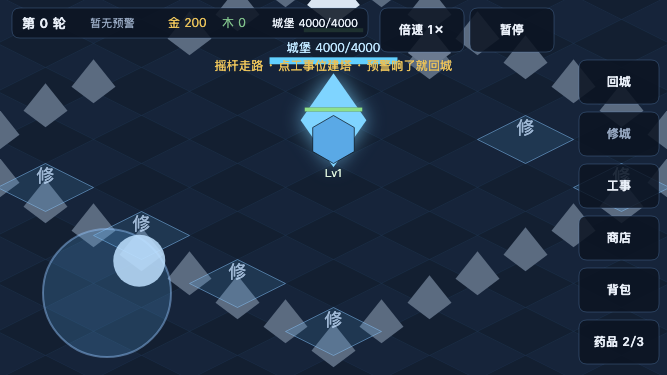
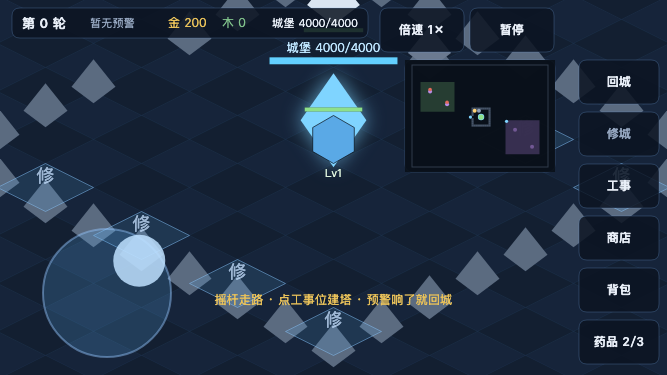
feat(minigame): 防守补上小地图（§2.6）——跟随相机下唯一的全局视图
相机跟人走时看不见基地在哪、怪从哪个方向来，那张俯视图是唯一的全局视图，点它还能回城
（与「回城」按钮共用 30 秒冷却）。浏览器版一直有，小游戏这边只有一条 ⚠ Ns 倒计时。

接法沿用移植里定型的那一招：绘制逻辑一行不重写，只补一个尺寸口子。

- render.js：createMinimap(canvas, { size }) 与 createRenderer 一样多一个 size() 口子
  （小游戏那张是离屏 canvas，同样没有 clientWidth/clientHeight；浏览器不传，行为不变）
- 小游戏里第二张 wx.createCanvas() 就是离屏画布：画在上面再整块 drawImage 贴到主画布
- 位置 405,60 起 150×112（右排按钮左边、倍速/暂停下面）；那一格也在 L.items 里，
  动作就是 { type:'teleport' }——点小地图回城，与那颗按钮同一个出口
- 顺手挪排版：防守的提示行从 y=66 挪到 底部中间 y=300（原来夹在「城堡 x/y」与小地图中间，
  样张里半句话被切掉；挪到 y=44 又和城堡那行撞上，两版都是样张看出来的）
- 用例 +2（布局与真机路：离屏画布真的画了/主画布贴了它/点它进冷却）+ TD 反向断言；
  两条变异反证；样张 minigame-defense.png 现在能看到小地图
- npm test 313 → 315；minigame 6 条全过；主包 17 模块 / 364.9 KB

Changed region(s): [[0.4198, 0.1467, 0.8396, 0.4693], [0.2999, 0.7627, 0.6897, 0.8213], [0.2999, 0.1467, 0.3898, 0.2053]]

diff --git a/src/minigame/game.js b/src/minigame/game.js
@@ -22,12 +22,12 @@ import { createTutorial, tutorialPasses } from '../tutorial.js';
 import { gridDist } from '../core.js';
 import { loadSettings, saveSettings } from '../settings.js';
 import { createHaptics } from '../feedback.js';
-import { createRenderer } from '../render.js';
+import { createMinimap, createRenderer } from '../render.js';
 import {
   buildFort, createDefenseMatch, describeDefense, orderMove, repairCastle, steerGoal, teleportHome, updateDefense,
 } from '../defense.js';
 import {
-  drawDefenseHud, hitTestDefense, inStickZone, layoutDefense, layoutFortSheet, stickBase, stickVector,
+  MINIMAP, drawDefenseHud, hitTestDefense, inStickZone, layoutDefense, layoutFortSheet, stickBase, stickVector,
 } from './defense-screen.js';
 import { applyLobbyAction, drawLobby, hitTestLobby, layoutLobby } from './lobby.js';
 import {
@@ -235,6 +235,15 @@ export function startMinigame({ requestAnimationFrame: raf = globalThis.requestA
       // 防守：摇杆状态（浮动模式下底座跟手指）+ 正在建的那个工事位
       stick: { active: false, id: null, origin: null, dir: { x: 0, y: 0, mag: 0 }, start: null },
       fortSlot: null,
+      /**
+       * 防守的小地图（§2.6）。小游戏里**第二张 `wx.createCanvas()` 就是离屏画布**：
+       * 用小地图那套现成的绘制（`render.js` 的 `createMinimap`，与浏览器版共用一份）画在它上面，
+       * 再整块贴到主画布上——省得在两处各画一遍「哪块地能刷、门在哪、怪从哪来」。
+       */
+      minimap: m.mode === 'defense' ? (() => {
+        const c = wx.createCanvas();
+        return { canvas: c, api: createMinimap(c, { size: () => ({ w: MINIMAP.w, h: MINIMAP.h }) }) };
+      })() : null,
       ...over,
     };
     applyCamera(b);
@@ -742,6 +751,11 @@ export function startMinigame({ requestAnimationFrame: raf = globalThis.requestA
       const o = hudOffset();
       ctx.setTransform(size.dpr, 0, 0, size.dpr, size.dpr * o.x, size.dpr * o.y);
       drawDefenseHud(ctx, b.m, b.layout, { message, stick: b.stick.active ? { base: b.stick.origin, dir: b.stick.dir } : { base: b.layout.stick, dir: { x: 0, y: 0, mag: 0 } } });
+      // 小地图画在 HUD 之后：它那一格在 `items` 里（负责命中），底下的面板底由这张图盖住
+      if (b.minimap) {
+        b.minimap.api.draw(b.m);
+        ctx.drawImage(b.minimap.canvas, MINIMAP.x, MINIMAP.y, MINIMAP.w, MINIMAP.h);
+      }
     } else {
       b.layout = layoutBattle(b.model());
       // `hintSlots`：引导第一步/第二步在战场上圈出「建这里」（render.js 本来就有这段，直接复用）
@@ -863,6 +877,8 @@ export function startMinigame({ requestAnimationFrame: raf = globalThis.requestA
     match: () => battle?.m ?? null,
     /** 调试/验收用：屏幕坐标 ↔ 格坐标的换算（点塔位那一步要用） */
     renderer: () => battle?.renderer ?? null,
+    /** 调试/验收用：防守的小地图（离屏画布 + `render.js` 那套绘制）——离线验收要断言它真的画了 */
+    minimap: () => battle?.minimap ?? null,
     tap: (x, y) => (battle ? tapBattle(battle, x, y) : tapLobby(x, y)),
     startMatch,
     backToLobby,

diff --git a/src/minigame/defense-screen.js b/src/minigame/defense-screen.js
@@ -9,6 +9,11 @@ import { FORTS } from '../data.js';
 
 export const DESIGN = { w: 667, h: 375 };
 export const CAPSULE = { w: 96, h: 32 };
+/**
+ * §2.6 / §14.3 稿 5 的小地图：**跟随相机下唯一的全局视图**（我在哪、怪从哪来、基地还剩多少），
+ * 点它回城（与「回城」按钮共用 30 秒冷却）。位置挑在右侧那排按钮的左边、倍速/暂停下面那块空地。
+ */
+export const MINIMAP = { x: 405, y: 60, w: 150, h: 112 };
 export const STICK = {
   radius: 64,        // 摇杆推满的半径（§1.9.1 的 60-72pt，取中）
   deadZone: 0.25,    // 死区：小于它算没推（与 defense.js 的 steerGoal 门槛同源）
@@ -112,10 +117,17 @@ export function layoutDefense(m, model = {}) {
   if (model.endlessExit) {
     items.push(item('endless', 20, 315, 200, 48, '继续（无尽）', { type: 'endless' }));
   }
+  /**
+   * 小地图那一格：**键本身不画东西**（label 是空串，底下那层面板底会被小地图盖住），
+   * 它只负责两件事——命中测试（点它 = 回城，与「回城」按钮同一个动作）与给绘制层一个矩形。
+   */
+  items.push(item('minimap', MINIMAP.x, MINIMAP.y, MINIMAP.w, MINIMAP.h, '',
+    { type: 'teleport' }, { disabled: m.hero?.teleportCd > 0 || m.hero?.dead }));
   return {
     w: DESIGN.w, h: DESIGN.h,
     capsule: { x: DESIGN.w - CAPSULE.w - 8, y: 6, w: CAPSULE.w, h: CAPSULE.h },
     top: { x: 12, y: 8, w: 356, h: 30 },
+    minimap: MINIMAP,
     items,
     byId: Object.fromEntries(items.map((it) => [it.id, it])),
     stick: stickBase(model),
@@ -182,7 +194,12 @@ export function drawDefenseHud(ctx, m, L, { message = null, stick = null } = {})
     ctx.arc(kx, ky, 26, 0, Math.PI * 2);
     ctx.fill();
   }
-  if (message) text(ctx, message, L.w / 2, 66, { size: 12, align: 'center', color: COLORS.gold });
+  /**
+   * 提示那一行写在**底部中间**（y=300）：上半屏那条中线被两样东西占着——`drawDefense` 自己画的
+   * 「城堡 x/y + 血条」（城堡多半就在屏幕中上部）与小地图（y=60 起）。以前写在这两者中间，
+   * 样张里一眼就能看见半句话被切掉。底部这一带是空的（右排按钮在 x=579 往右，工事/回城都不在这）。
+   */
+  if (message) text(ctx, message, L.w / 2, 300, { size: 12, align: 'center', color: COLORS.gold });
   return L;
 }
 

diff --git a/src/render.js b/src/render.js
@@ -568,15 +568,20 @@ export function createRenderer(canvas, { size = null } = {}) {
  * 防守模式的右上小地图（§2.6 / §14.3 稿 5）：跟随相机下看不见基地与进攻方向，
  * 这张俯视平面图是「我在哪、怪从哪来、基地还剩多少」的唯一全局视图；点它回城（冷却 30s）。
  */
-export function createMinimap(canvas) {
+export function createMinimap(canvas, { size = null } = {}) {
   const ctx = canvas.getContext('2d');
   const PAD = 5;
   const view = { s: 1, ox: PAD, oy: PAD, w: 0, h: 0 };
 
-  function size(m) {
+  function layoutFor(m) {
     const dpr = Math.min(2, viewport().dpr || 1);
-    const w = canvas.clientWidth || canvas.width || 200;
-    const h = canvas.clientHeight || canvas.height || 150;
+    /**
+     * §平台适配（小游戏移植）：小游戏那张是**离屏 canvas**，同样没有 `clientWidth/clientHeight`，
+     * 所以和 `createRenderer` 一样允许传一个 `size()`；浏览器不传，行为与以前一模一样。
+     */
+    const measured = size ? size() : null;
+    const w = measured ? measured.w : (canvas.clientWidth || canvas.width || 200);
+    const h = measured ? measured.h : (canvas.clientHeight || canvas.height || 150);
     const pw = Math.floor(w * dpr), ph = Math.floor(h * dpr);
     if (canvas.width !== pw || canvas.height !== ph) { canvas.width = pw; canvas.height = ph; }
     ctx.setTransform(dpr, 0, 0, dpr, 0, 0);
@@ -590,7 +595,7 @@ export function createMinimap(canvas) {
   const toMinimap = (x, y) => ({ x: view.ox + (x + 0.5) * view.s, y: view.oy + (y + 0.5) * view.s });
 
   function draw(m) {
-    size(m);
+    layoutFor(m);
     const dot = (x, y, r, fill) => {
       const p = toMinimap(x, y);
       ctx.fillStyle = fill;

diff --git a/tests/minigame-battle.test.js b/tests/minigame-battle.test.js
@@ -71,6 +71,8 @@ test('小游戏战场 HUD：可点元素 ≥44×44、画布内、互不重叠、
   }
   assert.equal(L.capsule.w, CAPSULE.w);
   assert.ok(L.w === DESIGN.w && L.h === DESIGN.h);
+  // 小地图是防守专属（跟随相机下才需要那张全局视图）——TD 这边不该有那一格
+  assert.ok(!L.items.some((it) => it.id === 'minimap'), 'TD 的 HUD 上不该有小地图');
 });
 
 test('小游戏战场 HUD：命中测试与画出来的位置同源（每个按钮点中心都拿到自己的动作）', () => {

diff --git a/docs/STATUS.md b/docs/STATUS.md
@@ -21,7 +21,7 @@
 ## 2. 一条命令复跑全部验证
 
 ```bash
-npm test        # 313 项：数值 / 波次 / 经济 / 装备 / 天赋 / 技能细节 / 存档 / 联机 / 快速匹配 / 触觉反馈 / 摇杆指令 / 溅射衰减 / 药品计数 / 解锁来源与流水 / 野外区分区 / 亚格渲染 / 克制提示 / 局内资源不外流 / 仇恨 1 秒 / 野外区文案 / 战绩分模式 / 面板可见性 / 浮层收起 / 房间码提示 / 空房保留窗口 / 联机指令出口（handler 逐个查）/ 畸形指令与限速 / 克制表与枚举对齐 / 联机镜像不落本地存档（§113） / 大厅按模式给选项（§115：防守没有「局内时长」） / 低特效档真的关脉冲（§116） / 怪物光环按半径结算（§117） / Boss 光环按地图开关（§118） / 逻辑帧步长只有一个定义（§119） / 协议版本两侧校验（§120） / 畸形 URL 参数不崩服务端（§121） / 别人的名字不执行（§122） / 名字长度截断（§122） / 畸形指令值不崩服务端（§123） / 房间码不可枚举（§124） / 名单不广播 uid（§125） / 调试钩子默认关（§126）与「只在本地生效」（§197）/  免费期无付费入口（§128） / 联机结算面板也写「声望 +N」（§130） / 通关转无尽的出口（§131） / 精研技能书真的 +1 级（§132） / 狂战药剂真的持续 30 秒（§133） / 防守模式 buff 生效与疾风步移速（§134） / 两模式英雄 tick 职责对齐（§135） / 亡语分裂在防守里也生效（§136） / 防守的怪也吃减速眩晕 DoT（§137） / 防守内容不许带未实现能力（§138） / 「继续上局」只在**真读得出来**时出现（§139 + §204） /  **疾行药剂在两个模式都生效（§144） / **回城冷却进存档且真的走满 30 秒（§147） / **联机修塔真的生效、TD 专属指令在防守房被拒（§148） / **联机结算的伤害占比不为空、防守占比条写中文名（§149） / **结算面板的掉落栏写中文名（§151） / **快速匹配排队时写明「在等」（§152） / **新手引导的门槛与「重看」（§153） / **文案里的数字与数据表对账（§155） / ****临时端口串门与僵尸根因（§157）** / **4★-6★ 图能从大厅选到（§158） / **真机视口下大厅动作行粘底（§159） / **结算面板出口也粘底（§160） / **真机视口下防守 HUD 紧凑排布（§161） / **真机视口下引导条不压操作行（§162） / **联机长局镜像换成 30 波表（§163）/**§130 偶发红改成确定性（§164） / **联机怪物血条分母（§165）** / **联机房英雄职业进配置（§166）** / **浸泡不变量补五项（§167） / **真机视口下防守人体工学（§168）** / **§2.2 地图表逐列对账（§169） / **其余五张数值表逐列对账（§170） / **真机上的双指缩放与双击回核心（§171） / **把量出的偏差写回设计文档（§172） / **复跑三张数字表（§173） / **协议消息类型两边都要有人用（§174） / **零读者的导出扫干净（§175）** / **用到的 class 都有样式规则（§176）** / **客户端开局参数归一化（§177：坏 URL 不白屏 + 不污染档案）** / **缺 seed 的房间不再是常数种子（§177）** / **提示音在真机手势里解锁、日志不再谎报（§178）** / **真机手势卫生：连点技能键/长按不再被浏览器抢走（§180）** / **HUD 按安全区收边、不再压进刘海（§181）** / **冒烟的 CDP 请求加上限、不再偶发挂死（§182）** / **存不了档时说一声（§183）** / **大厅里不再偷偷打那一局（§184：不跑模拟、不出怪、不记档）** / **竖屏兜底「请横屏」（§185）**…
+npm test        # 315 项：数值 / 波次 / 经济 / 装备 / 天赋 / 技能细节 / 存档 / 联机 / 快速匹配 / 触觉反馈 / 摇杆指令 / 溅射衰减 / 药品计数 / 解锁来源与流水 / 野外区分区 / 亚格渲染 / 克制提示 / 局内资源不外流 / 仇恨 1 秒 / 野外区文案 / 战绩分模式 / 面板可见性 / 浮层收起 / 房间码提示 / 空房保留窗口 / 联机指令出口（handler 逐个查）/ 畸形指令与限速 / 克制表与枚举对齐 / 联机镜像不落本地存档（§113） / 大厅按模式给选项（§115：防守没有「局内时长」） / 低特效档真的关脉冲（§116） / 怪物光环按半径结算（§117） / Boss 光环按地图开关（§118） / 逻辑帧步长只有一个定义（§119） / 协议版本两侧校验（§120） / 畸形 URL 参数不崩服务端（§121） / 别人的名字不执行（§122） / 名字长度截断（§122） / 畸形指令值不崩服务端（§123） / 房间码不可枚举（§124） / 名单不广播 uid（§125） / 调试钩子默认关（§126）与「只在本地生效」（§197）/  免费期无付费入口（§128） / 联机结算面板也写「声望 +N」（§130） / 通关转无尽的出口（§131） / 精研技能书真的 +1 级（§132） / 狂战药剂真的持续 30 秒（§133） / 防守模式 buff 生效与疾风步移速（§134） / 两模式英雄 tick 职责对齐（§135） / 亡语分裂在防守里也生效（§136） / 防守的怪也吃减速眩晕 DoT（§137） / 防守内容不许带未实现能力（§138） / 「继续上局」只在**真读得出来**时出现（§139 + §204） /  **疾行药剂在两个模式都生效（§144） / **回城冷却进存档且真的走满 30 秒（§147） / **联机修塔真的生效、TD 专属指令在防守房被拒（§148） / **联机结算的伤害占比不为空、防守占比条写中文名（§149） / **结算面板的掉落栏写中文名（§151） / **快速匹配排队时写明「在等」（§152） / **新手引导的门槛与「重看」（§153） / **文案里的数字与数据表对账（§155） / ****临时端口串门与僵尸根因（§157）** / **4★-6★ 图能从大厅选到（§158） / **真机视口下大厅动作行粘底（§159） / **结算面板出口也粘底（§160） / **真机视口下防守 HUD 紧凑排布（§161） / **真机视口下引导条不压操作行（§162） / **联机长局镜像换成 30 波表（§163）/**§130 偶发红改成确定性（§164） / **联机怪物血条分母（§165）** / **联机房英雄职业进配置（§166）** / **浸泡不变量补五项（§167） / **真机视口下防守人体工学（§168）** / **§2.2 地图表逐列对账（§169） / **其余五张数值表逐列对账（§170） / **真机上的双指缩放与双击回核心（§171） / **把量出的偏差写回设计文档（§172） / **复跑三张数字表（§173） / **协议消息类型两边都要有人用（§174） / **零读者的导出扫干净（§175）** / **用到的 class 都有样式规则（§176）** / **客户端开局参数归一化（§177：坏 URL 不白屏 + 不污染档案）** / **缺 seed 的房间不再是常数种子（§177）** / **提示音在真机手势里解锁、日志不再谎报（§178）** / **真机手势卫生：连点技能键/长按不再被浏览器抢走（§180）** / **HUD 按安全区收边、不再压进刘海（§181）** / **冒烟的 CDP 请求加上限、不再偶发挂死（§182）** / **存不了档时说一声（§183）** / **大厅里不再偷偷打那一局（§184：不跑模拟、不出怪、不记档）** / **竖屏兜底「请横屏」（§185）**…
 npm run soak    # 180 局全组合浸泡：运行期不变量 + 存档不动点 + 客户端镜像一致性
 npm run smoke   # 378 条真浏览器断言（**三个视口**、十一个面；含快速匹配、内存告警降级、真按下的短震动链路、防守摇杆拖动、点空地的塔位提示、克制提示与护甲预告、野外区掉落加成、防守战绩口径、日志面板让位/恢复、跨局浮层收起、攻城图的修塔按钮、秘传技能书的技能栏变化、优先级/速度/围墙/重置进度、HUD 数值跟随（7+3 处）、塔面板 X 与标题、再开一局、长局 30 波 HUD、真机视口下的轮盘/塔面板、房间码提示与镜像对齐、进不去房间转单人继续、被动掉线自动重连、**六条联机指令真的到服务端**、**§113 联机点「回大厅/再开一局」真的离房**、**§114 联机不假装暂停/加速、掉线写清 5 分钟**/**§115 防守模式不摆「局内时长」假选项**/**§116 低特效档真的关脉冲**/**§145 每次版式体检都查「两块 HUD 浮层不许叠在一起」**/**§153 新手引导门槛与「重看」（§153）/**设置面板按模式取舍选项（§154）/**文案里的数字与数据表对账（§155）**/**临时端口串门与僵尸根因（§157）/**4★-6★ 图能从大厅选到（§158）/**真机视口下大厅动作行粘底（§159）/**结算面板出口也粘底（§160）**/**真机视口下防守 HUD 紧凑排布（§161）**/**真机视口下引导条不压操作行（§162）/**联机长局镜像换成 30 波表（§163）/**§130 偶发红改成确定性（§164）/**联机怪物血条分母（§165）**/**联机房英雄职业进配置（§166）**/**浸泡不变量补五项（§167）/**真机视口下防守人体工学（§168）**/**§2.2 地图表逐列对账（§169）/**其余五张数值表逐列对账（§170）/**真机上的双指缩放与双击回核心（§171）**/**客户端坏 URL 不白屏（§177）**/**提示音在真机策略下真的响了（§178）**/**真机手势卫生（§180）**/**HUD 不进刘海安全区（§181）**/**大厅不跑模拟（§184）**/**竖屏有「请横屏」兜底（§185）**/**低端 4G 模拟下首屏 ≤3 秒（§186）** / **「再开一局」连打的第二局也记档（§188）** / **浏览器里真的把 12 波打完、结算与档案都对（§189）** / **防守也真的守满 4 轮；城堡陷落后「继续（无尽）」不再挂着（§190）** / **长局 30 波也在浏览器里真的打完（§191，含一条参考打法在 4★ 长局末波输掉的观测）** / **中途加入已在打的房（§192）** / **§130 那条「声望 +N」的偶发红改成确定性（§193：根因是房间空着时就记了结算）** / **`sim` 调试钩子只在本地生效（§197：补上 §126 那条「非 URL 开关」的规矩）** / **连打不涨：6 局 DOM/堆都平，并把「每局不长 DOM」钉进冒烟（§198）** / **服务端不再攒退役房间（§199：删掉只写不读的 `stopped` 表）** / **画布内容与「画面在动」也有检查了（§200–§202）** / **第三个视口 568×320（§203）** / **「能读的才算有存档」补齐后半（§204）** / **档案形状归一化（§205）** / **日志面板的 innerHTML 先转义（§206：那一处最容易新增玩家名字）**
 npm run waves   # §8.5 逐波余量（4 人基准）
@@ -194,7 +194,7 @@ npm run bench / bandwidth   # 容量 / 带宽预算（§110/§111：两个工具
 |---|---|---|---|
 | 1 | **按 `game-design.md` 的已确认需求开发** | ✅ | 设计文档里**打勾的验收清单**逐条有实现与检查（见 §1 那张表）；**所有数值表逐列对过账**（§169/§170，改一处就红）；**原「等拍板」的 33 条已全部拍板并落地**（§3.1 + 验证记录 §207–§209；文档类的 20 条在附录 B/C 与对应小节补了口径） |
 | 2 | **一直开发到能玩为止** | ✅ | 浏览器里**真的**跑通过整条链路：TD 短局通关（§189：7.4 分钟、结算面板、记档、解锁 map_02）、防守守满 4 轮转无尽（§190）、**长局 30 波**（§191：32.5 分钟）；联机建房 / 快速匹配 / 中途加入第 3 波（§192）/ 掉线重连 / 离场（§102/§113/§114）；三个视口（1334×750 / 667×375 / **568×320**）的版式与人体工学（§203、§145）；手机竖屏有「请横屏」兜底（§185） |
-| 3 | **自己去验证错误** | ✅ | 验证记录 **§1–§232**：每条发现都带「一个能失败的检查」+ 变异反证；最新一轮全量复跑：`npm test` **313 项** · `npm run smoke` **378 条**（三个视口、十一个面）· `soak` 180 局（119 胜 61 负，不变量一条没破）· `matrix` 全绿（**并检查首发三图普通档 8-12 分钟**）· `defense` 12.7 分钟/4 轮 · `waves` 12/12 · `defense-matrix` 36 局守住 22（**验收线 8 格全过**）· `bandwidth` 6.61 KB/s（预算 15）· `bench` 1699k 实体·帧/秒 · `tutorial` 3/3 达标 |
+| 3 | **自己去验证错误** | ✅ | 验证记录 **§1–§233**：每条发现都带「一个能失败的检查」+ 变异反证；最新一轮全量复跑：`npm test` **315 项** · `npm run smoke` **378 条**（三个视口、十一个面）· `soak` 180 局（119 胜 61 负，不变量一条没破）· `matrix` 全绿（**并检查首发三图普通档 8-12 分钟**）· `defense` 12.7 分钟/4 轮 · `waves` 12/12 · `defense-matrix` 36 局守住 22（**验收线 8 格全过**）· `bandwidth` 6.61 KB/s（预算 15）· `bench` 1699k 实体·帧/秒 · `tutorial` 3/3 达标 |
 
 **仍然在别人手里的（不是欠债，是等输入）**：
 

diff --git a/README.md b/README.md
@@ -12,7 +12,7 @@
 M0.5 可玩原型（TD 塔防首发切片）：等距伪 3D 横屏战场、12 波、4 种塔各 3 级、4 英雄（含 2 主动技 + 技能书解锁第 3 技）、9 种怪物、装备掉落与一键合成、商店与药品、暂停与加速。
 
 ```bash
-npm test        # 313 项（含小游戏打包产物的检查）：数值 / 波次 / 经济 / 人数缩放（§1.6：怪量·生命·金币，联机房按名册定档）/ 地形（§2.3：岩浆挡弹道、沼泽减速与射程 −1、高地射程 +1.5 攻击 +10%）/ 难度四列（§2.4：生命·攻击·出怪速度·掉落）/ 局外人物等级（初始金币 + 复活加速）/ 武器 4 类（单体/群伤/减速/对空，特性真的生效）· 装备（主属性与词条真的进战斗 · 强化 +1..+5 · 自由换装 · 出售返还）/ DPS 线（裸装 ≤2.5 座塔 + **满装 ≤4 座**，§3.1 #3）/ 掉落节奏（含橙装来源拆账）/ 概率上限与闪避 / 容错率 / 整局 / 天赋接线（钢铁意志·咒术精通·法力涌动）/ 技能细节（制裁之锤对 Boss 眩晕减半、猎人印记加成英雄普攻）/ 商店（3 格背包·波次中读条 3 秒·回城卷轴·**防守商店只在基地内**〔§3.1 #14〕·群疗符禁售〔#20〕）/ 指令表双向对齐（含 **`leave`**）/ 主动退房与掉线的区别（§3.1 #23）/ 设备级 token：冒用 uid 被拒 + 本机换身份重连（§3.1 #24）/ **深链进锁着的图按档案归一化**（§3.1 #29）/ 中途加入窗口（§12.3）/ 快速匹配（§1.5：分桶·满员即开·45 秒窗口）/ 攻击优先级（§8.3 四种模式）/ 克制提示（§3.8·§6.2：提示由克制表算出）/ 克制表与枚举对齐（§6.2）/ 实体传送点（§2.6）/ 上次配置一键开局（§2.1） / 局内资源不外流（§12.6）/ 战绩分模式（§12.6：TD 最快通关 / 防守守住轮次）/ 仇恨 1 秒窗口（§7.7：脱离后还要被追打 1 秒）/ 野外区文案（§2.6：区名 + 等级段 + 掉落加成）/ 面板可见性（§14.3：日志让位由 CSS 表达）/ 跨局浮层收起（§95：开新局前收掉轮盘与塔面板）/ 房间码没命中的提示与房间配置对齐（§1.5 / §102）/ 空房保留 5 分钟边界（§10.3）/ 联机指令出口（§10.1：键盘与按钮同一条路，且每个 handler 都有 net 分支）/ 畸形指令与限速（§12.7 / §108）/ 防守摇杆指令（§1.9.1·§10.1：目标格算法 + 贴墙退化）/ 溅射距离衰减（§7.1：落点 100% → 边缘 50%）/ 野外区分区掉落（§2.6·§12.8：dropBonus）/ 解锁来源与货币流水（§1.7.3）/ 亚格渲染（§10.3：怪与人物按 dist/carry 画，不再跳格）/ 快照序号与补发（§10.3 序号跳跃 → 请求全量） / 渲染（相机·小地图·地图缩略图）/ HUD / 联机 / 带宽 / 重连 / 存档 / 解锁 / 队伍色 / 预测 / 性能护栏 / 不卡死（每局都必须能结束）/ 复活保护 / 触觉反馈 / 药品计数（§5.5） / 联机镜像不落本地存档（§113） / 大厅按模式给选项（§115：防守没有「局内时长」） / 低特效档真的关脉冲（§116） / 怪物光环按半径结算（§117） / Boss 光环按地图开关（§118） / 逻辑帧步长只有一个定义（§119） / 协议版本两侧校验（§120） / 畸形 URL 参数不崩服务端（§121） / 别人的名字不执行（§122） / 名字长度截断（§122） / 畸形指令值不崩服务端（§123） / 房间码不可枚举（§124） / 名单不广播 uid（§125） / 调试钩子默认关（§126） / 免费期无付费入口（§128） / 联机结算面板也写「声望 +N」（§130） / 通关转无尽的出口（§131） / 精研技能书真的 +1 级（§132） / 狂战药剂真的持续 30 秒（§133） / 防守模式 buff 生效与疾风步移速（§134） / 两模式英雄 tick 职责对齐（§135） / 亡语分裂在防守里也生效（§136） / 防守的怪也吃减速眩晕 DoT（§137） / 防守内容不许带未实现能力（§138） / **疾行药剂在两个模式都生效（§144）** / **回城冷却进存档且真的走满 30 秒（§147）** / **联机修塔真的生效、TD 专属指令在防守房被拒（§148） / **联机结算的伤害占比不为空、防守占比条写中文名（§149） / **结算面板的掉落栏写中文名（§151） / **快速匹配排队时写明「在等」（§152） / **新手引导的门槛与「重看」（§153）** / **设置面板按模式取舍选项（§154）** / **文案里的数字与数据表对账（§155） / ****临时端口串门与僵尸 npm test 的根因（§157）** / **4★-6★ 图能从大厅选到（§158） / **真机视口下大厅动作行粘底（§159） / **结算面板出口也粘底（§160） / **真机视口下防守 HUD 换紧凑排布（§161） / **真机视口下引导条不压操作行（§162） / **联机长局的镜像换成 30 波表（§163） / **§130 偶发红改成确定性（§164） / **联机怪物血条的分母由服务端给（§165） / **联机房的英雄职业也进配置（§166） / **浸泡的不变量补五项（§167） / **真机视口下防守人体工学也量了（§168） / **§2.2 地图表逐列对账（§169） / **其余五张数值表逐列对账（§170） / **真机上的双指缩放与双击回核心（§171） / **把量出的偏差写回设计文档（§172） / **复跑三张数字表（§173） / **协议消息类型两边都要有人用（§174） / **零读者的导出扫干净（§175）** / **用到的 class 都有样式规则（§176）** / **客户端开局参数归一化：坏 URL 不再白屏、不再污染档案（§177）** / **提示音在真机手势里解锁、日志不再谎报（§178）** / **真机手势卫生：连点技能键不再触发双击缩放（§180）** / **HUD 不再压进刘海（§181：按 `env(safe-area-inset-*)` 收边）** / **存不了档时说一声（§183）** / **大厅里不再偷偷打那一局（§184：不跑模拟、不记档）** / **竖屏兜底「请横屏」（§185）**
+npm test        # 315 项（含小游戏打包产物的检查）：数值 / 波次 / 经济 / 人数缩放（§1.6：怪量·生命·金币，联机房按名册定档）/ 地形（§2.3：岩浆挡弹道、沼泽减速与射程 −1、高地射程 +1.5 攻击 +10%）/ 难度四列（§2.4：生命·攻击·出怪速度·掉落）/ 局外人物等级（初始金币 + 复活加速）/ 武器 4 类（单体/群伤/减速/对空，特性真的生效）· 装备（主属性与词条真的进战斗 · 强化 +1..+5 · 自由换装 · 出售返还）/ DPS 线（裸装 ≤2.5 座塔 + **满装 ≤4 座**，§3.1 #3）/ 掉落节奏（含橙装来源拆账）/ 概率上限与闪避 / 容错率 / 整局 / 天赋接线（钢铁意志·咒术精通·法力涌动）/ 技能细节（制裁之锤对 Boss 眩晕减半、猎人印记加成英雄普攻）/ 商店（3 格背包·波次中读条 3 秒·回城卷轴·**防守商店只在基地内**〔§3.1 #14〕·群疗符禁售〔#20〕）/ 指令表双向对齐（含 **`leave`**）/ 主动退房与掉线的区别（§3.1 #23）/ 设备级 token：冒用 uid 被拒 + 本机换身份重连（§3.1 #24）/ **深链进锁着的图按档案归一化**（§3.1 #29）/ 中途加入窗口（§12.3）/ 快速匹配（§1.5：分桶·满员即开·45 秒窗口）/ 攻击优先级（§8.3 四种模式）/ 克制提示（§3.8·§6.2：提示由克制表算出）/ 克制表与枚举对齐（§6.2）/ 实体传送点（§2.6）/ 上次配置一键开局（§2.1） / 局内资源不外流（§12.6）/ 战绩分模式（§12.6：TD 最快通关 / 防守守住轮次）/ 仇恨 1 秒窗口（§7.7：脱离后还要被追打 1 秒）/ 野外区文案（§2.6：区名 + 等级段 + 掉落加成）/ 面板可见性（§14.3：日志让位由 CSS 表达）/ 跨局浮层收起（§95：开新局前收掉轮盘与塔面板）/ 房间码没命中的提示与房间配置对齐（§1.5 / §102）/ 空房保留 5 分钟边界（§10.3）/ 联机指令出口（§10.1：键盘与按钮同一条路，且每个 handler 都有 net 分支）/ 畸形指令与限速（§12.7 / §108）/ 防守摇杆指令（§1.9.1·§10.1：目标格算法 + 贴墙退化）/ 溅射距离衰减（§7.1：落点 100% → 边缘 50%）/ 野外区分区掉落（§2.6·§12.8：dropBonus）/ 解锁来源与货币流水（§1.7.3）/ 亚格渲染（§10.3：怪与人物按 dist/carry 画，不再跳格）/ 快照序号与补发（§10.3 序号跳跃 → 请求全量） / 渲染（相机·小地图·地图缩略图）/ HUD / 联机 / 带宽 / 重连 / 存档 / 解锁 / 队伍色 / 预测 / 性能护栏 / 不卡死（每局都必须能结束）/ 复活保护 / 触觉反馈 / 药品计数（§5.5） / 联机镜像不落本地存档（§113） / 大厅按模式给选项（§115：防守没有「局内时长」） / 低特效档真的关脉冲（§116） / 怪物光环按半径结算（§117） / Boss 光环按地图开关（§118） / 逻辑帧步长只有一个定义（§119） / 协议版本两侧校验（§120） / 畸形 URL 参数不崩服务端（§121） / 别人的名字不执行（§122） / 名字长度截断（§122） / 畸形指令值不崩服务端（§123） / 房间码不可枚举（§124） / 名单不广播 uid（§125） / 调试钩子默认关（§126） / 免费期无付费入口（§128） / 联机结算面板也写「声望 +N」（§130） / 通关转无尽的出口（§131） / 精研技能书真的 +1 级（§132） / 狂战药剂真的持续 30 秒（§133） / 防守模式 buff 生效与疾风步移速（§134） / 两模式英雄 tick 职责对齐（§135） / 亡语分裂在防守里也生效（§136） / 防守的怪也吃减速眩晕 DoT（§137） / 防守内容不许带未实现能力（§138） / **疾行药剂在两个模式都生效（§144）** / **回城冷却进存档且真的走满 30 秒（§147）** / **联机修塔真的生效、TD 专属指令在防守房被拒（§148） / **联机结算的伤害占比不为空、防守占比条写中文名（§149） / **结算面板的掉落栏写中文名（§151） / **快速匹配排队时写明「在等」（§152） / **新手引导的门槛与「重看」（§153）** / **设置面板按模式取舍选项（§154）** / **文案里的数字与数据表对账（§155） / ****临时端口串门与僵尸 npm test 的根因（§157）** / **4★-6★ 图能从大厅选到（§158） / **真机视口下大厅动作行粘底（§159） / **结算面板出口也粘底（§160） / **真机视口下防守 HUD 换紧凑排布（§161） / **真机视口下引导条不压操作行（§162） / **联机长局的镜像换成 30 波表（§163） / **§130 偶发红改成确定性（§164） / **联机怪物血条的分母由服务端给（§165） / **联机房的英雄职业也进配置（§166） / **浸泡的不变量补五项（§167） / **真机视口下防守人体工学也量了（§168） / **§2.2 地图表逐列对账（§169） / **其余五张数值表逐列对账（§170） / **真机上的双指缩放与双击回核心（§171） / **把量出的偏差写回设计文档（§172） / **复跑三张数字表（§173） / **协议消息类型两边都要有人用（§174） / **零读者的导出扫干净（§175）** / **用到的 class 都有样式规则（§176）** / **客户端开局参数归一化：坏 URL 不再白屏、不再污染档案（§177）** / **提示音在真机手势里解锁、日志不再谎报（§178）** / **真机手势卫生：连点技能键不再触发双击缩放（§180）** / **HUD 不再压进刘海（§181：按 `env(safe-area-inset-*)` 收边）** / **存不了档时说一声（§183）** / **大厅里不再偷偷打那一局（§184：不跑模拟、不记档）** / **竖屏兜底「请横屏」（§185）**
 npm run selfplay  # 无头打一整局，打印每波推进与结算（默认 4 人基准；FF_PLAYERS=1 切单人档，§1.6）
 npm run bandwidth # 带宽实测（默认 8 秒，可传秒数）
 npm run bench     # 容量实测（默认 200 实体 × 600 tick；§111 起：过程里场上掉到目标的 90% 以下就 exit 1，不再拿空场的吞吐当结论）

diff --git a/docs/minigame-port.md b/docs/minigame-port.md
@@ -172,7 +172,7 @@ npm run minigame         # 先打包再跑本地验收（假 wx）
 ```bash
 npm run minigame          # 打包 + 假 wx 验收（含「大厅画出来了 / 触摸能选中」6 条）
 npm run minigame:preview  # 出七张样张（大厅 / 战场 / 塔 / 商店 / 结算 / 暂停 / 防守）
-npm test                  # 313 项：小游戏这一层的大厅 / 战场 / 建造 / 商店 / 结算 / 暂停 / 继续上局 / 防守 / 新手引导 / 相机
+npm test                  # 315 项：小游戏这一层的大厅 / 战场 / 建造 / 商店 / 结算 / 暂停 / 继续上局 / 防守 / 新手引导 / 相机
 ```
 
 ## 6. 发布前还差什么（非代码，都要你那边办）
@@ -225,7 +225,7 @@ npm test                  # 313 项：小游戏这一层的大厅 / 战场 / 建
 ```bash
 npm run minigame          # 打包 + 假 wx 本地验收（6 条：环境自检 / 内核等价性 / 模块清单 / 大厅画出来了 / 触摸能选中 / 点开局能进局）
 npm run minigame:preview  # 本机 Chrome 出七张样张（docs/testing/screenshots/minigame-*.png）
-npm test                  # 313 项，含小游戏这几屏的布局 / 命中 / 状态迁移 / 记档
+npm test                  # 315 项，含小游戏这几屏的布局 / 命中 / 状态迁移 / 记档
 npm run smoke             # 378 条真浏览器断言（浏览器那一侧的界面仍然按浏览器验）
 ```
 
@@ -471,3 +471,24 @@ STATUS §3.1 #33 拍板过一件事：**最小支持视口 = 667×375**，比它
 **验收**：`tests/minigame-defense.test.js` 加一条——摆出「刚守住 4 轮」的状态（真打满 4 轮要十几分钟）：
 时间要继续走 → 面板还在时给「继续（无尽）」→ 点了之后键收起来、那一局还在跑 →
 反面：把 endless 关掉（城堡陷落那种结束）时间必须停。两条变异反证（退回 `result` 就停表、拿掉那颗键）都红。
+
+### 5.2.16 防守的小地图（已完成 · 2026-09-23）：跟随相机下唯一的全局视图
+
+§2.6 / §14.3 稿 5 的小地图在浏览器版是防守模式的必需品：**相机跟着人走时，你看不见基地在哪、
+怪从哪个方向来**——那张俯视图是唯一的全局视图，点它还回城（与「回城」按钮共用 30 秒冷却）。
+小游戏这边一直没有它，玩家只能靠一条 `⚠ Ns 后抵达` 的倒计时猜方向。
+
+接法沿用移植里已经定型的那条路（**渲染逻辑一行不重写，只补一个尺寸口子**）：
+
+* `render.js` 的 `createMinimap(canvas, { size })` 与 `createRenderer` 一样多一个 `size()` 口子——
+  小游戏那张是**离屏 canvas**，同样没有 `clientWidth/clientHeight`；浏览器不传，行为不变；
+* 小游戏里**第二张 `wx.createCanvas()` 就是离屏画布**：把那套绘制画在上面，再整块 `drawImage` 贴到主画布；
+* 位置挑在右侧那排按钮左边、倍速/暂停下面（`405,60` 起 150×112），那一格也在 `L.items` 里，
+  动作就是 `{ type: 'teleport' }`——点小地图回城，与那颗按钮同一个出口；
+* 顺手挪了一处排版：防守的提示那一行从 y=66 挪到**底部中间 y=300**。它原来夹在
+  `drawDefense` 自己画的「城堡 x/y」与小地图中间，样张里看得见半句话被切掉。
+
+**验收**：`tests/minigame-defense.test.js` 两条——布局（小地图 ≥44、不压胶囊/顶栏/右排按钮、
+那一格的命中就是回城）与真机路（离屏画布上真的画了底/野区/围墙与那些圆点、主画布这一帧 `drawImage` 贴了它、
+点它真的进 30 秒冷却）；TD 那边钉一句「不该有小地图」（它是跟随相机的防守专属）。
+两条变异反证（不贴图、拿掉那一格）都红。样张 `minigame-defense.png` 现在能看到小地图。

diff --git a/docs/testing/m0.5-td-prototype.md b/docs/testing/m0.5-td-prototype.md
@@ -9348,3 +9348,41 @@ HUD 布局（热区 ≥44、不压胶囊区、**摇杆有效区与 HUD 键不重
 
 `npm test` 312 → **313 项** · `npm run minigame` 6 条全过 · 主包 17 个模块 / 362.1 KB（4MB 上限的 8.8%）·
 样张七张（这一轮像素没变）· 浏览器侧一行没动。
+
+## 233. 小游戏防守补上小地图（§2.6）：跟随相机下唯一的全局视图
+
+同一条尺子（浏览器版有的，小游戏有没有）量到小地图。它在浏览器版是防守模式的**必需品**：
+相机跟着人走时看不见基地在哪、怪从哪个方向来，那张俯视图是唯一的全局视图；点它还能回城
+（与「回城」按钮共用 30 秒冷却）。小游戏这边一直没有——玩家只有一条 `⚠ Ns 后抵达` 的倒计时。
+
+### 233.1 接法：只补一个尺寸口子，绘制逻辑一行不重写
+
+移植路上已经定型过这一招（`createRenderer(canvas, { size })`），这次照用：
+
+| 事 | 做法 |
+|---|---|
+| 绘制逻辑 | **复用** `render.js` 里那份 `createMinimap`（野区 / 围墙 / 营地 / 传送点 / 工事 / 怪 / 城堡 / 英雄与低血环 / 预警闪边，全都在里面） |
+| 尺寸口子 | `createMinimap(canvas, { size })`：小游戏那张是**离屏 canvas**，也没有 `clientWidth/clientHeight`；浏览器不传，行为不变 |
+| 离屏画布 | 小游戏里**第二张 `wx.createCanvas()` 就是离屏画布**——画在上面，再整块 `drawImage` 贴到主画布 |
+| 位置与交互 | `405,60` 起 150×112（右排按钮左边、倍速/暂停下面）；那一格也在 `L.items` 里，动作就是 `{ type:'teleport' }` |
+| 顺手挪的一处排版 | 防守的提示行从 y=66 挪到**底部中间 y=300**：它原来夹在 `drawDefense` 自画的「城堡 x/y」与小地图之间，样张里半句话被切掉（第一版改到 y=44 又和城堡那行撞上，两版都在样张里看得见） |
+
+### 233.2 检查
+
+`tests/minigame-defense.test.js` 两条：
+
+① 布局——小地图 ≥44、不压胶囊 / 顶栏 / 右排按钮，那一格的命中结果就是 `{type:'teleport'}`；
+② 真机路——防守局画一帧：离屏画布上真的画了底 / 野区 / 围墙（`fillRect`）与那些圆点（`arc`）、
+   主画布这一帧 `drawImage` 贴了它、点它真的进 30 秒冷却。
+
+TD 那边钉一句反向断言：「TD 的 HUD 上不该有小地图」（它是跟随相机的防守专属）。
+
+| 变异 | 结果 |
+|---|---|
+| 不贴图（去掉 `drawImage` 那一句） | ② 红在「小地图上该有底 / 野区 / 围墙（fillRect 0 次）」 |
+| 拿掉那一格（没有命中目标） | ①② 都红（布局拿不到 `byId.minimap`、点了不回城） |
+
+### 233.3 数字
+
+`npm test` 313 → **315 项** · `npm run minigame` 6 条全过 · 主包 17 个模块 / 364.9 KB（4MB 上限的 8.9%）·
+样张重出（`minigame-defense.png` 现在能看到小地图）· 浏览器侧一行没动。
